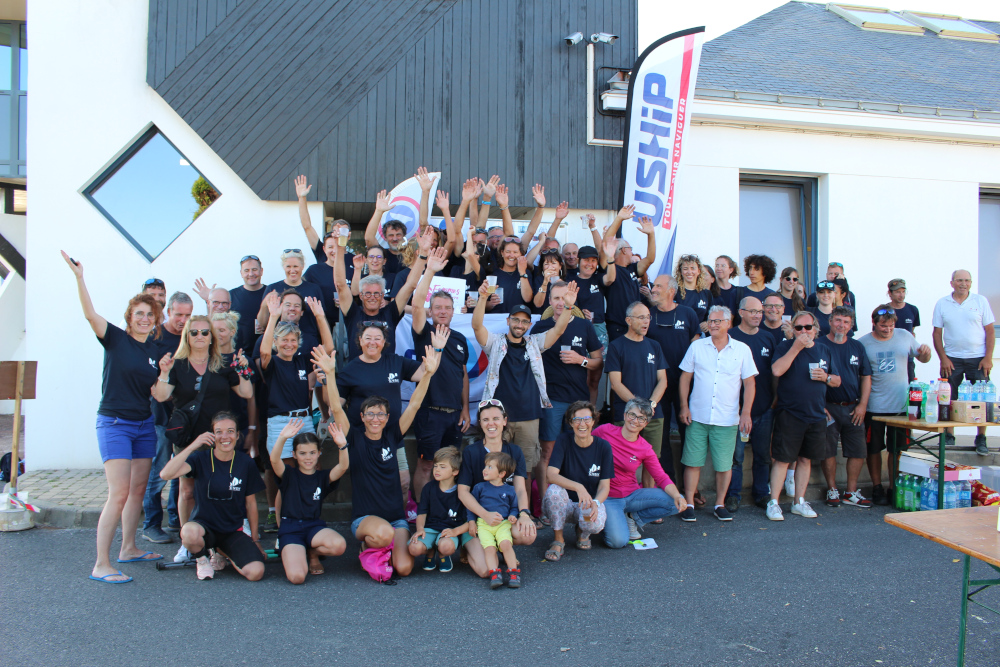
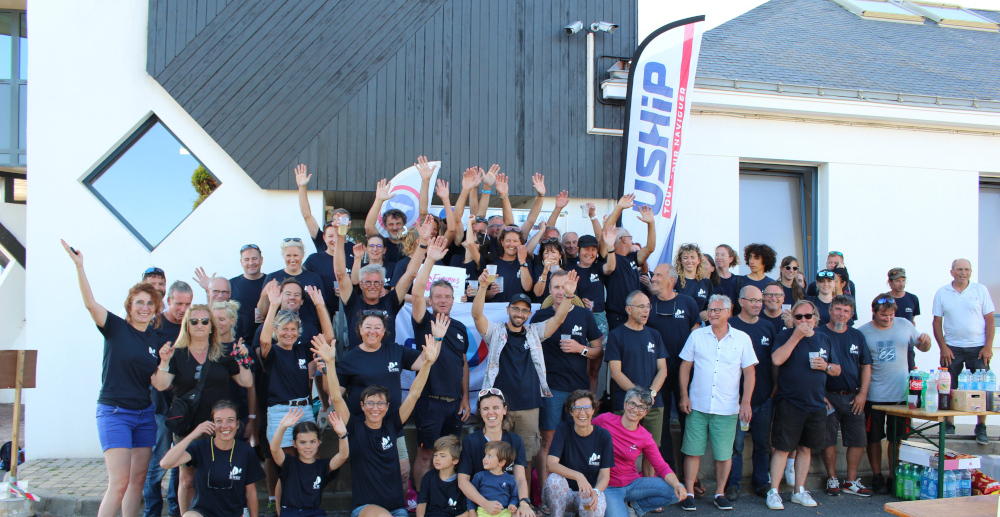
resize images

diff --git a/femmes-a-la-barre-2024.html b/femmes-a-la-barre-2024.html
@@ -29,25 +29,25 @@ order: 2
             </ol>
             <div class="carousel-inner">
                 <div class="carousel-item active">
-                    <img class="d-block w-100" src="/assets/falb/IMG_4952.JPG" alt="Femmes à la barre">
+                    <img class="d-block w-100" src="/assets/falb/IMG_4952.JPG?v=2" alt="Femmes à la barre">
                 </div>
                 <div class="carousel-item">
-                    <img class="d-block w-100" src="/assets/falb/IMG_5193.JPG" alt="Femmes à la barre">
+                    <img class="d-block w-100" src="/assets/falb/IMG_5193.JPG?v=2" alt="Femmes à la barre">
                 </div>
                 <div class="carousel-item">
-                    <img class="d-block w-100" src="/assets/falb/IMG_8426.JPG" alt="Femmes à la barre">
+                    <img class="d-block w-100" src="/assets/falb/IMG_8426.JPG?v=2" alt="Femmes à la barre">
                 </div>
                 <div class="carousel-item">
-                    <img class="d-block w-100" src="/assets/falb/IMG_8557.JPG" alt="Femmes à la barre">
+                    <img class="d-block w-100" src="/assets/falb/IMG_8557.JPG?v=2" alt="Femmes à la barre">
                 </div>
                 <div class="carousel-item">
-                    <img class="d-block w-100" src="/assets/falb/IMG_8560.JPG" alt="Femmes à la barre">
+                    <img class="d-block w-100" src="/assets/falb/IMG_8560.JPG?v=2" alt="Femmes à la barre">
                 </div>
                 <div class="carousel-item">
-                    <img class="d-block w-100" src="/assets/falb/IMG_4777.JPG" alt="Femmes à la barre">
+                    <img class="d-block w-100" src="/assets/falb/IMG_4777.JPG?v=2" alt="Femmes à la barre">
                 </div>
                 <div class="carousel-item">
-                    <img class="d-block w-100" src="/assets/falb/IMG_5091.JPG" alt="Femmes à la barre">
+                    <img class="d-block w-100" src="/assets/falb/IMG_5091.JPG?v=2" alt="Femmes à la barre">
                 </div>
             </div>
         </div>
